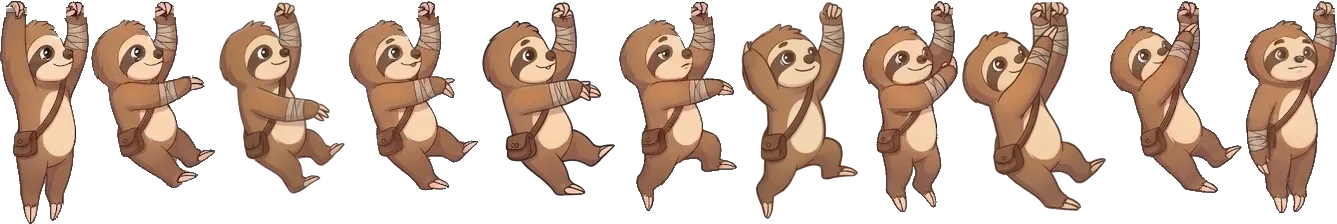
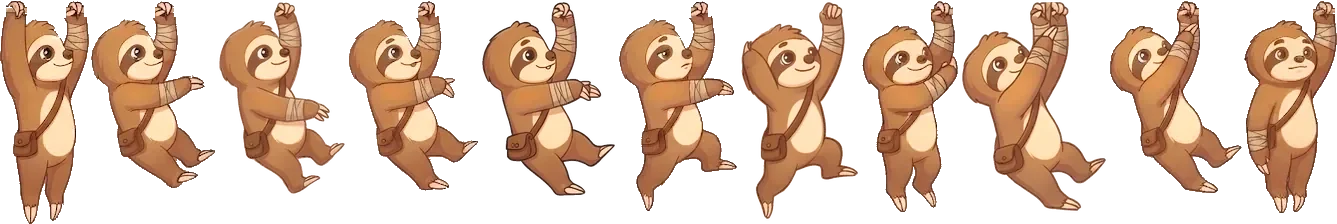
ART-SHEETS (R-165.379): rope sheet regraded onto the plain pose (10.16 -> 0.03 dE pooled, worst frame 0.16); sheetgrade.py; before/after strip

diff --git a/tools/art/hfnext/sheetgrade.py b/tools/art/hfnext/sheetgrade.py
@@ -1,0 +1,126 @@
+"""ART-SHEETS (R-165.379): the R-165.378 Lab transfer (regrade.py --ship --even, the exact same passes) for the hero sheets that are NOT
+clips, by the game's own frame tables (sheetbody.py's FRAMES): each sheet's body colour moves onto the plain pose's palette, the outline
+(L < 18 none, full from L 28) and the eyes' whites (L > 80 and chroma < 8 none, full from chroma 14) untouched, and no prop either (water
+blue b < -2 or leaf green a < -4: weight 0, the same frame mask sheetbody.py measures with). One L-binned a/b curve + an L shift per sheet,
+5 global passes closing the fur MEAN as it ships (WebP q86 method 6), then --even: each frame's own offset, smoothed [1 2 1] over its
+neighbours in table order (10 passes), then 3 exact per-frame passes. Pixels outside every frame rect are not touched. Overlapping rects
+(atlas idle_a / guard) are each graded from the ORIGINAL pixels, the later frame's grade kept there (nothing is graded twice).
+    python3 -I tools/art/hfnext/sheetgrade.py rope,swim,vine,climb2 [--from 4f0853b96] [--dry]
+Reads each sheet from git at --from, writes it to src/assets/hero/ (q86), records the transfer in tools/art/hfnext/sheetgrade.json.
+"""
+import io, json, subprocess, sys
+from pathlib import Path
+import numpy as np
+from PIL import Image
+
+NAMES = sys.argv[1].split(',')
+REV = sys.argv[sys.argv.index('--from') + 1] if '--from' in sys.argv else '4f0853b96'
+DRY = '--dry' in sys.argv
+JS = ("import {ROPE_FRAMES} from './src/game/heroRopeData.ts'; import {SWIM_MOVES} from './src/game/heroSwimData.ts';"
+      "import {VINE_FRAMES} from './src/game/heroVineData.ts'; import {STORY_FRAMES} from './src/game/heroStoryData.ts';"
+      "import {STUDY_FRAMES} from './src/game/heroStudiesData.ts'; import {HERO_FRAMES} from './src/game/heroAtlasData.ts';"
+      "const swim = {}; for (const [n, m] of Object.entries(SWIM_MOVES)) m.at.forEach(([x, y], i) => (swim[n + i] = {x, y, w: m.w, h: m.h}));"
+      "console.log(JSON.stringify({rope: ROPE_FRAMES, swim, vine: VINE_FRAMES, story: STORY_FRAMES, studies: STUDY_FRAMES, atlas: HERO_FRAMES}))")
+FRAMES = json.loads(subprocess.run(['npx', 'tsx', '-e', JS], capture_output=True, text=True, check=True).stdout)
+FRAMES['climb2'] = json.load(open('src/assets/hero/hero-climb2.json'))['frames']
+SHEET = {'rope': 'hero-rope', 'swim': 'pokey-swim', 'vine': 'hero-vine', 'story': 'hero-story', 'studies': 'hero-studies',
+         'atlas': 'hero-atlas', 'climb2': 'hero-climb2'}
+LOOPS = {'rope', 'swim', 'vine', 'climb2'}   # sheets whose frames the game cycles through in table order (smoothing wraps)
+_M = np.array([[0.4124, 0.3576, 0.1805], [0.2126, 0.7152, 0.0722], [0.0193, 0.1192, 0.9505]]); _W = np.array([0.9505, 1.0, 1.089])
+
+
+def lab(rgb_):   # the same sRGB -> Lab (D65) as regrade.py
+    c = rgb_ / 255.0; c = np.where(c > 0.04045, ((c + 0.055) / 1.055) ** 2.4, c / 12.92)
+    f = (c @ _M.T) / _W; f = np.where(f > 0.008856, np.cbrt(f), 7.787 * f + 16 / 116)
+    return np.stack([116 * f[..., 1] - 16, 500 * (f[..., 0] - f[..., 1]), 200 * (f[..., 1] - f[..., 2])], -1)
+
+
+def rgb(L):
+    fy = (L[..., 0] + 16) / 116; f = np.stack([fy + L[..., 1] / 500, fy, fy - L[..., 2] / 200], -1)
+    xyz = np.where(f > 0.206893, f ** 3, (f - 16 / 116) / 7.787) * _W
+    c = np.clip(xyz @ np.linalg.inv(_M).T, 0, 1); c = np.where(c > 0.0031308, 1.055 * np.power(c, 1 / 2.4) - 0.055, 12.92 * c)
+    return np.clip(c * 255, 0, 255)
+
+
+def furm(L):   # sheetbody.py's frame mask over Lab px of SOLID pixels
+    C = np.hypot(L[..., 1], L[..., 2]); return (L[..., 0] >= 25) & ~((L[..., 0] > 85) & (C < 12)) & (L[..., 2] > -2) & (L[..., 1] > -4)
+
+
+BINS = np.arange(25, 105, 5)
+
+
+def bin_means(F):
+    idx = np.clip(np.digitize(F[:, 0], BINS) - 1, 0, len(BINS) - 2)
+    n = np.bincount(idx, minlength=len(BINS) - 1).astype(float)
+    a = np.bincount(idx, F[:, 1], len(BINS) - 1) / np.maximum(n, 1); b = np.bincount(idx, F[:, 2], len(BINS) - 1) / np.maximum(n, 1)
+    return n, a, b
+
+
+def smooth(v, w):
+    k = np.array([1, 2, 1.0]); vw = np.convolve(np.pad(v * w, 1, mode='edge'), k, 'valid'); ww = np.convolve(np.pad(w, 1, mode='edge'), k, 'valid')
+    return vw / np.maximum(ww, 1e-9)
+
+
+std = np.asarray(Image.open('src/assets/hero/hero-standard.webp').convert('RGBA')).astype(np.float32)[478:478 + 209, 674:674 + 127]
+PL = lab(std[..., :3])[std[..., 3] > 200]; PF = PL[furm(PL)]; pm = PF.mean(0)
+rec = json.loads(Path('tools/art/hfnext/sheetgrade.json').read_text()) if Path('tools/art/hfnext/sheetgrade.json').exists() else {}
+for name in NAMES:
+    path = f'src/assets/hero/{SHEET[name]}.webp'
+    sheet = np.asarray(Image.open(io.BytesIO(subprocess.run(['git', 'show', f'{REV}:{path}'], capture_output=True, check=True).stdout)).convert('RGBA')).astype(np.float32)
+    R = list(FRAMES[name].values())
+    FACE = [n.startswith('face_') for n in FRAMES[name]]   # atlas face close-ups (HeroFaceIcon): the face is lighter than the body by design,
+                                                           # so they take the sheet's curve but no per-frame pull and do not steer the mean
+    crop = lambda s, r: s[r['y']:r['y'] + r['h'], r['x']:r['x'] + r['w']]
+    fr = [crop(sheet, r) for r in R]
+    CF = np.concatenate([L[furm(L)] for k, L in enumerate(lab(f[..., :3])[f[..., 3] > 200] for f in fr) if not FACE[k]])
+    pn, pa, pb = bin_means(PF); cn, ca, cb = bin_means(CF)
+    w = np.minimum(pn, cn); ok = w >= 200
+    ga, gb = pm[1] - CF[:, 1].mean(), pm[2] - CF[:, 2].mean()
+    da = np.where(ok, pa - ca, ga); db = np.where(ok, pb - cb, gb)
+    da, db = smooth(da, np.where(ok, w, 1.0)), smooth(db, np.where(ok, w, 1.0))
+    dL = float(pm[0] - CF[:, 0].mean()); ctr = (BINS[:-1] + BINS[1:]) / 2
+
+    def apply(f, ev=(0.0, 0.0, 0.0)):
+        out = f.copy(); vis = f[..., 3] > 0; L = lab(f[..., :3][vis]); C = np.hypot(L[:, 1], L[:, 2])
+        wt = np.clip((L[:, 0] - 18) / 10, 0, 1)                           # the outline stays
+        wt *= np.where(L[:, 0] > 80, np.clip((C - 8) / 6, 0, 1), 1)      # the eyes' whites stay
+        wt *= ((L[:, 2] > -2) & (L[:, 1] > -4))                           # no prop (water, leaves)
+        L2 = L.copy(); L2[:, 0] += wt * (dL + ev[0])
+        L2[:, 1] += wt * (np.interp(L[:, 0], ctr, da) + ev[1]); L2[:, 2] += wt * (np.interp(L[:, 0], ctr, db) + ev[2])
+        out[..., :3][vis] = np.round(rgb(L2)); return out
+
+    def sheet_of(nf):
+        out = sheet.copy()
+        for r, f in zip(R, nf):
+            out[r['y']:r['y'] + r['h'], r['x']:r['x'] + r['w']] = f
+        return out
+
+    def shipped_fur(nf, each=False):   # the fur as it SHIPS: through the q86 WebP encode
+        b = io.BytesIO(); Image.fromarray(sheet_of(nf).astype(np.uint8), 'RGBA').save(b, 'WEBP', quality=86, method=6)
+        s2 = np.asarray(Image.open(b).convert('RGBA')).astype(np.float32)
+        per = [L[furm(L)] for L in (lab(crop(s2, r)[..., :3])[crop(s2, r)[..., 3] > 200] for r in R)]
+        return per if each else np.concatenate([u for k, u in enumerate(per) if not FACE[k]])
+    for _ in range(5):
+        NF = shipped_fur([apply(f) for f in fr]); r_ = pm - NF.mean(0); dL += float(r_[0]); da = da + r_[1]; db = db + r_[2]
+    EV = np.zeros((len(fr), 3)); mode = 'wrap' if name in LOOPS else 'edge'
+    big = [len(L) > 50 and not FACE[k] for k, L in enumerate(shipped_fur(fr, each=True))]
+    for _ in range(10):
+        per = shipped_fur([apply(f, EV[k]) for k, f in enumerate(fr)], each=True)
+        Rr = np.array([pm - u.mean(0) if big[k] else np.zeros(3) for k, u in enumerate(per)])
+        Rp = np.pad(Rr, ((1, 1), (0, 0)), mode=mode); EV = (EV + (Rp[:-2] + 2 * Rp[1:-1] + Rp[2:]) / 4) * ~np.array(FACE)[:, None]
+    for _ in range(3):
+        per = shipped_fur([apply(f, EV[k]) for k, f in enumerate(fr)], each=True)
+        EV = EV + np.array([pm - u.mean(0) if big[k] else np.zeros(3) for k, u in enumerate(per)])
+    nf = [apply(f, EV[k]) for k, f in enumerate(fr)]
+    per = shipped_fur(nf, each=True); NF = shipped_fur(nf)
+    fd = [float(np.linalg.norm(u.mean(0) - pm)) for k, u in enumerate(per) if big[k]]
+    print(f'{name}: fur mean {CF.mean(0).round(2)} -> {NF.mean(0).round(2)} (plain {pm.round(2)}); pooled dE {np.linalg.norm(CF.mean(0) - pm):.2f} -> '
+          f'{np.linalg.norm(NF.mean(0) - pm):.2f}; worst frame after {max(fd):.2f}; dL {dL:+.2f}; |even| max {np.abs(EV).max():.2f}')
+    rec[name] = {'sheet': path, 'from': REV, 'written': 'q86 method 6', 'dL': round(dL, 3), 'L_bin_centres': ctr.tolist(), 'da': np.round(da, 3).tolist(),
+                 'db': np.round(db, 3).tolist(), 'even': np.round(EV, 3).tolist(), 'fur_mean_before': np.round(CF.mean(0), 2).tolist(),
+                 'fur_mean_after': np.round(NF.mean(0), 2).tolist(), 'plain_fur_mean': np.round(pm, 2).tolist()}
+    if DRY:
+        continue
+    Image.fromarray(sheet_of(nf).astype(np.uint8), 'RGBA').save(path, 'WEBP', quality=86, method=6)
+if not DRY:
+    Path('tools/art/hfnext/sheetgrade.json').write_text(json.dumps(rec, indent=1) + '\n')

diff --git a/tools/art/hfnext/sheetbody.py b/tools/art/hfnext/sheetbody.py
@@ -38,17 +38,22 @@ def load(p):
     return np.asarray(Image.open(p).convert('RGBA')).astype(np.float32)
 
 
-PF = fur(load('src/assets/hero/hero-standard.webp')[478:478 + 209, 674:674 + 127]).mean(0)
-res = {}
-for k, fr in FRAMES.items():
-    im = load(f'src/assets/hero/{SHEET[k]}.webp')
-    FU = {n: fur(im[r['y']:r['y'] + r['h'], r['x']:r['x'] + r['w']]) for n, r in fr.items()}
-    fd = {n: round(float(np.linalg.norm(u.mean(0) - PF)), 2) for n, u in FU.items() if len(u) > 50}
-    pooled = np.concatenate(list(FU.values())).mean(0); w = max(fd, key=fd.get)
-    res[k] = {'sheet': f'src/assets/hero/{SHEET[k]}.webp', 'frames': len(fr), 'pooled': round(float(np.linalg.norm(pooled - PF)), 2),
-              'frame_max': fd[w], 'frame_max_at': w, 'fur_lab': pooled.round(2).tolist(), 'frame_de': fd}
-    print(f"{k:8s} {len(fr):3d} frames | fur L a b {pooled.round(1)} | pooled {res[k]['pooled']:5.2f} dE, worst frame {fd[w]:5.2f} ({w}) | "
-          f"over the clips' bar (frame 2.0 / pooled 1.0): {'YES' if fd[w] > 2.0 or res[k]['pooled'] > 1.0 else 'no'}")
-print('plain fur L a b', PF.round(2))
-if '--json' in sys.argv:
-    json.dump(res, open(sys.argv[sys.argv.index('--json') + 1], 'w'), indent=1)
+def main():
+    PF = fur(load('src/assets/hero/hero-standard.webp')[478:478 + 209, 674:674 + 127]).mean(0)
+    res = {}
+    for k, fr in FRAMES.items():
+        im = load(f'src/assets/hero/{SHEET[k]}.webp')
+        FU = {n: fur(im[r['y']:r['y'] + r['h'], r['x']:r['x'] + r['w']]) for n, r in fr.items()}
+        fd = {n: round(float(np.linalg.norm(u.mean(0) - PF)), 2) for n, u in FU.items() if len(u) > 50}
+        pooled = np.concatenate(list(FU.values())).mean(0); w = max(fd, key=fd.get)
+        res[k] = {'sheet': f'src/assets/hero/{SHEET[k]}.webp', 'frames': len(fr), 'pooled': round(float(np.linalg.norm(pooled - PF)), 2),
+                  'frame_max': fd[w], 'frame_max_at': w, 'fur_lab': pooled.round(2).tolist(), 'frame_de': fd}
+        print(f"{k:8s} {len(fr):3d} frames | fur L a b {pooled.round(1)} | pooled {res[k]['pooled']:5.2f} dE, worst frame {fd[w]:5.2f} ({w}) | "
+              f"over the clips' bar (frame 2.0 / pooled 1.0): {'YES' if fd[w] > 2.0 or res[k]['pooled'] > 1.0 else 'no'}")
+    print('plain fur L a b', PF.round(2))
+    if '--json' in sys.argv:
+        json.dump(res, open(sys.argv[sys.argv.index('--json') + 1], 'w'), indent=1)
+
+
+if __name__ == '__main__':
+    main()
